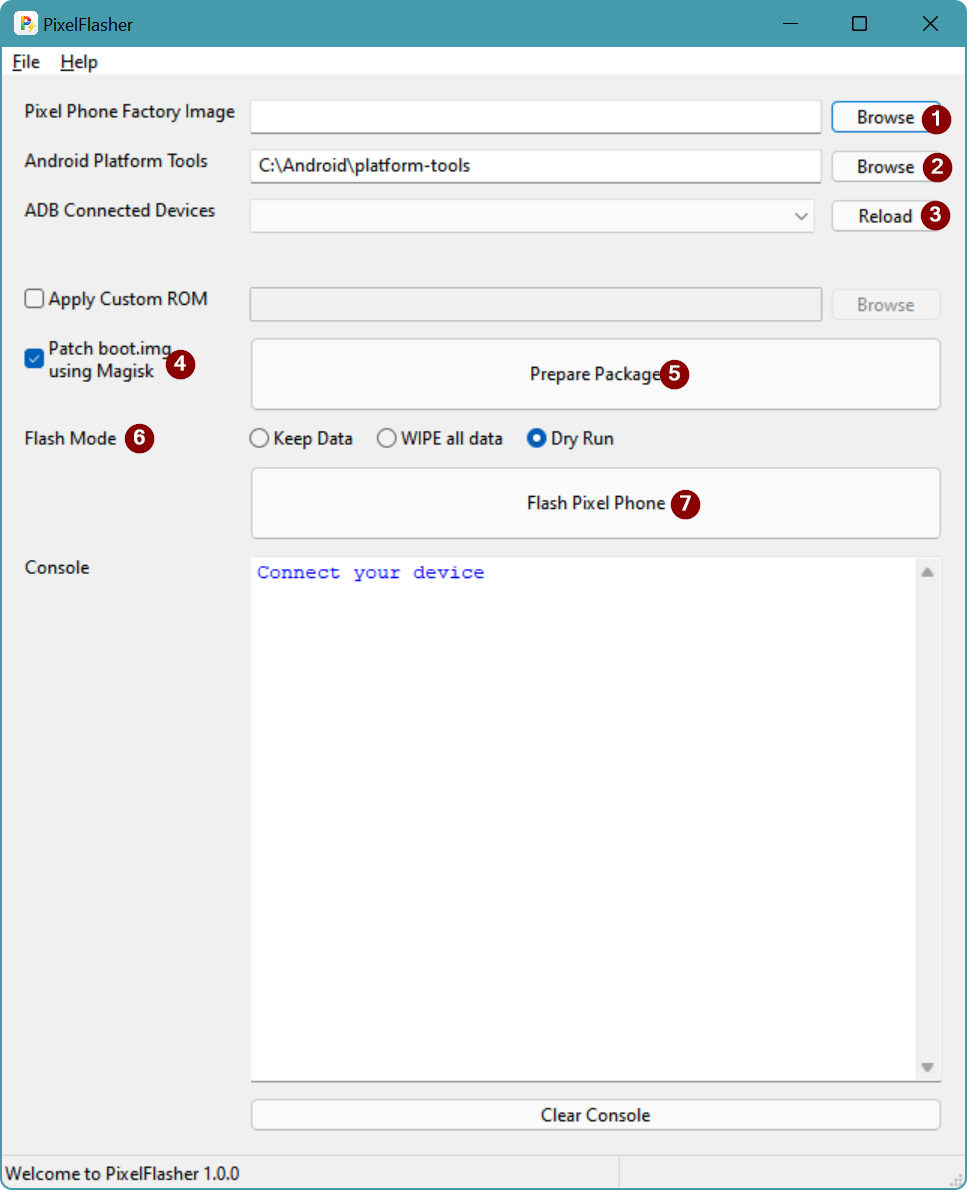
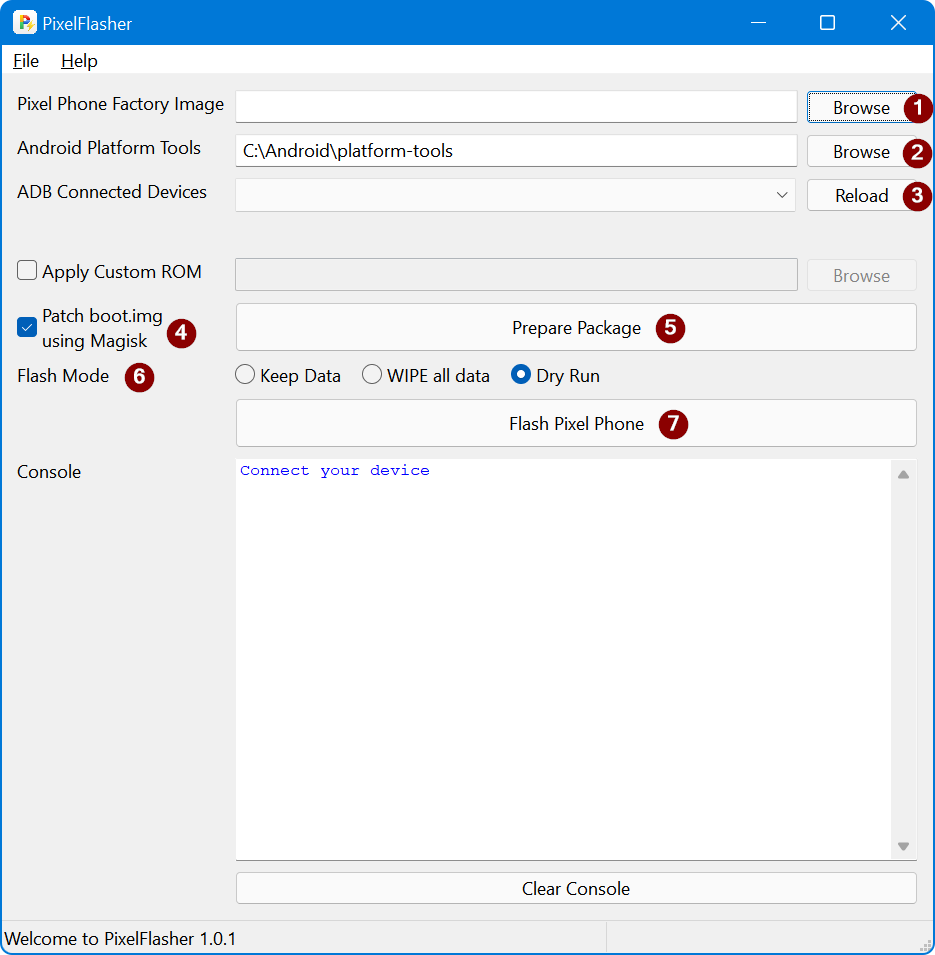
Fix the blurry issue on high dpi screens.

diff --git a/Main.py b/Main.py
@@ -17,10 +17,17 @@ import re
 import time
 import ntpath
 
+import ctypes
+try:
+    ctypes.windll.shcore.SetProcessDpiAwareness(True)
+except:
+    pass
+
+
 # see https://discuss.wxpython.org/t/wxpython4-1-1-python3-8-locale-wxassertionerror/35168
 locale.setlocale(locale.LC_ALL, 'C')
 
-__version__ = "1.0.0"
+__version__ = "1.0.1"
 __width__ = 1200
 __height__ = 800
 
@@ -848,8 +855,7 @@ class PixelFlasher(wx.Frame):
 
 
         self.console_ctrl = wx.TextCtrl(panel, style=wx.TE_MULTILINE | wx.TE_READONLY )
-        self.console_ctrl.SetFont(wx.Font((0, 13), wx.FONTFAMILY_TELETYPE, wx.FONTSTYLE_NORMAL,
-                                          wx.FONTWEIGHT_NORMAL))
+        self.console_ctrl.SetFont(wx.Font(8, wx.FONTFAMILY_TELETYPE, wx.FONTSTYLE_NORMAL,wx.FONTWEIGHT_NORMAL))
         self.console_ctrl.SetBackgroundColour(wx.WHITE)
         self.console_ctrl.SetForegroundColour(wx.BLUE)
         self.console_ctrl.SetDefaultStyle(wx.TextAttr(wx.BLUE))
@@ -881,22 +887,6 @@ class PixelFlasher(wx.Frame):
         panel.SetSizer(hbox)
         self.Bind(wx.EVT_CLOSE, self.OnClose)
         self.Bind(wx.EVT_SIZE, self.OnResize)
-
-
-# ============================================================================
-#                               Class App
-# ============================================================================
-class App(wx.App, wx.lib.mixins.inspection.InspectionMixin):
-    def OnInit(self):
-        # see https://discuss.wxpython.org/t/wxpython4-1-1-python3-8-locale-wxassertionerror/35168
-        self.ResetLocale()
-        # wx.SystemOptions.SetOption("mac.window-plain-transition", 1)
-        self.SetAppName("PixelFlasher")
-
-        frame = PixelFlasher(None, "PixelFlasher")
-        frame.Show()
-
-        return True
 
 
 # ============================================================================
@@ -1059,6 +1049,24 @@ def which(program):
                 return exe_file
 
     return None
+
+
+# ============================================================================
+#                               Class App
+# ============================================================================
+class App(wx.App, wx.lib.mixins.inspection.InspectionMixin):
+    def OnInit(self):
+        # see https://discuss.wxpython.org/t/wxpython4-1-1-python3-8-locale-wxassertionerror/35168
+        self.ResetLocale()
+        # wx.SystemOptions.SetOption("mac.window-plain-transition", 1)
+        self.SetAppName("PixelFlasher")
+
+        frame = PixelFlasher(None, "PixelFlasher")
+        # frame.SetClientSize(frame.FromDIP(wx.Size(__width__, __height__)))
+        # frame.SetClientSize(wx.Size(__width__, __height__))
+        frame.Show()
+
+        return True
 
 
 # ============================================================================

diff --git a/README.md b/README.md
@@ -1,4 +1,4 @@
-![Image of PixelFlasher Icon](/images/icon-256.png)
+![Image of PixelFlasher Icon](/images/icon-128.png)
 # PixelFlasher [![License: GPL v3](https://img.shields.io/badge/License-GPLv3-blue.svg)](https://www.gnu.org/licenses/gpl-3.0)
 This is a follow up to [PixelFlasher](/scripts/PixelFlasher.ps1) `Powershell™` script (which is now moved to `scripts` directory).
 This is a total rewrite in Python™ using [wxPython](https://www.wxpython.org/) to provide a UI interface.
